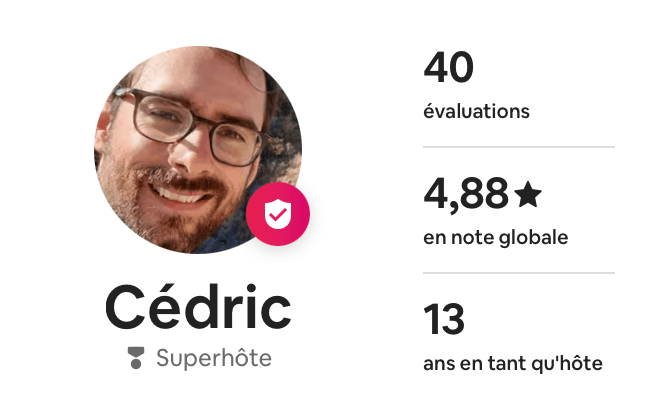
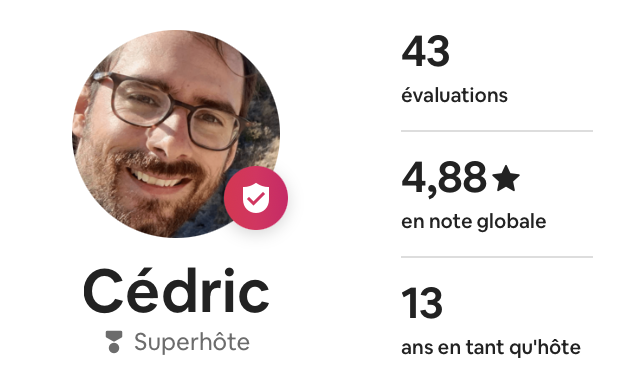
site: update Cedric Airbnb superhost badge image
Also fix eleventy-img v7 import in eleventy.config.js (default export)
so responsive image processing works again.

diff --git a/eleventy.config.js b/eleventy.config.js
@@ -1,6 +1,6 @@
 // eleventy.config.js
 const i18n = require("eleventy-plugin-i18n");
-const Image = require("@11ty/eleventy-img");
+const Image = require("@11ty/eleventy-img").default;
 const fs = require("fs");
 const path = require("path");
 require("dotenv").config();
